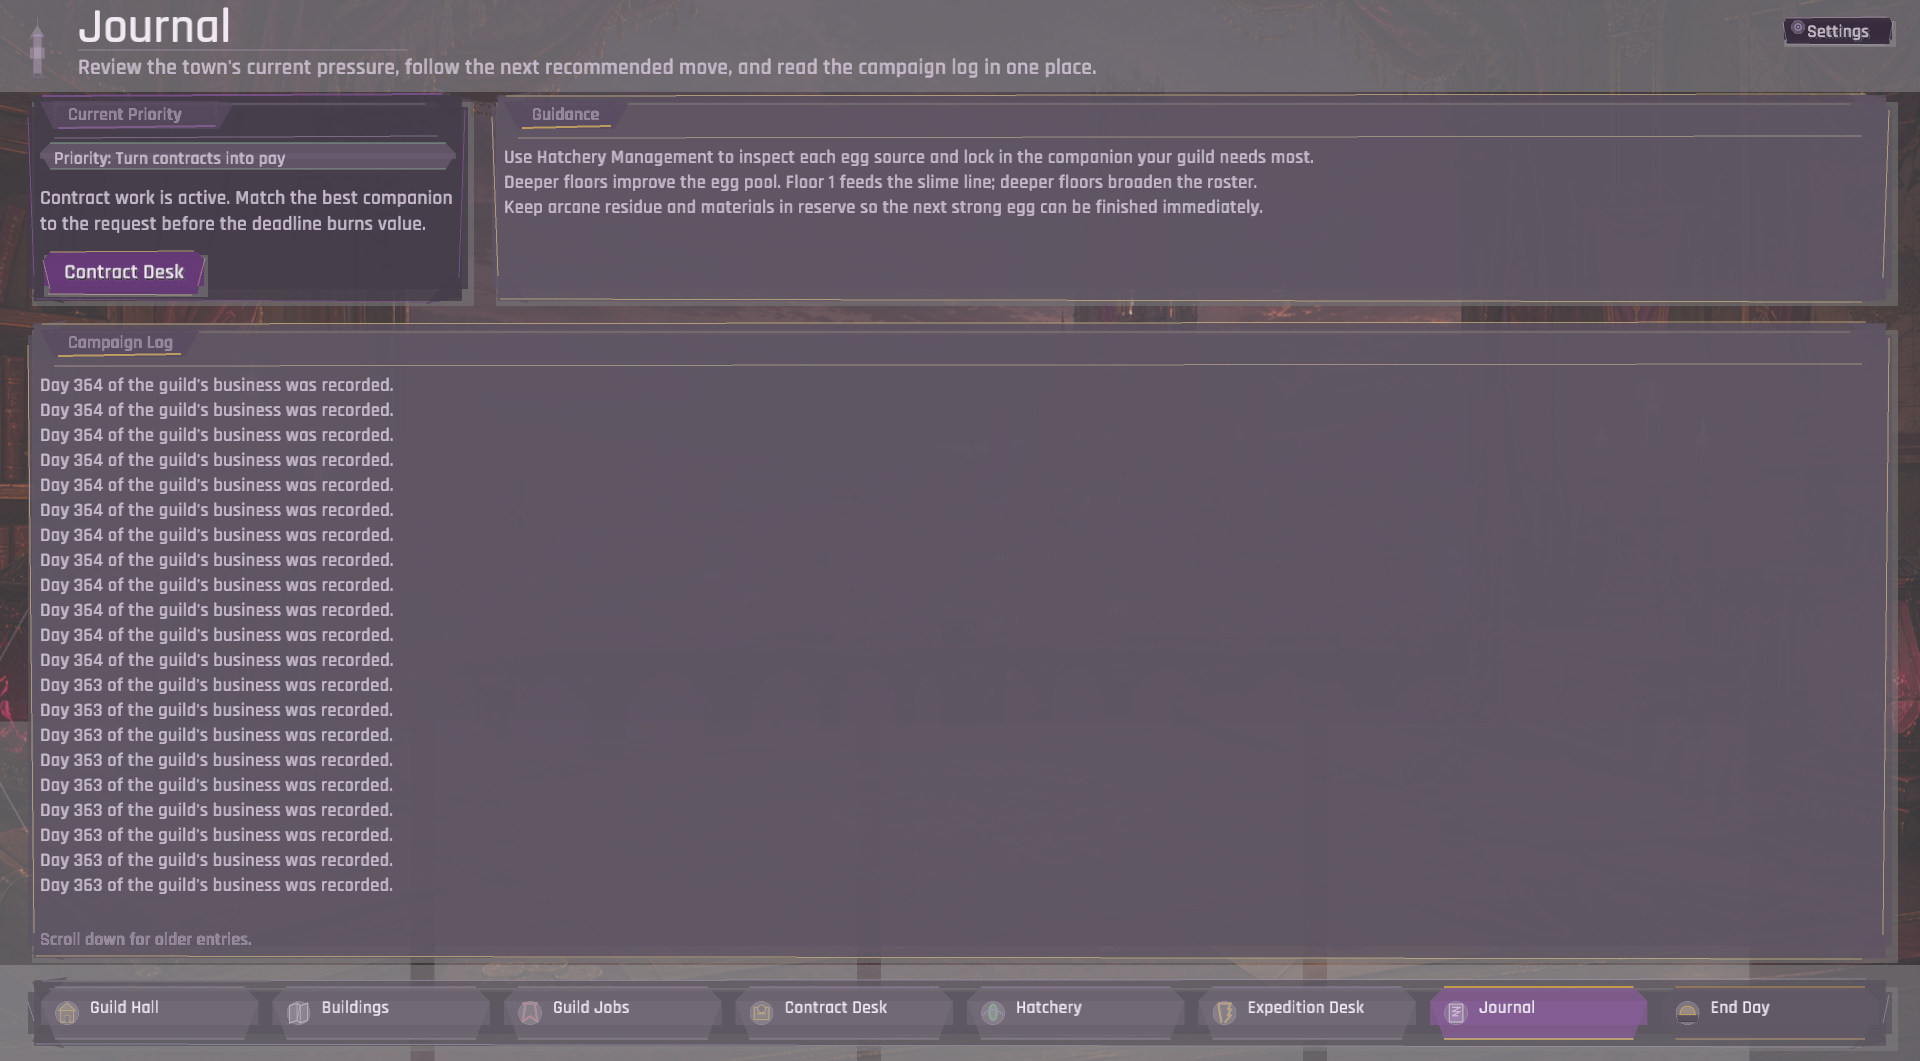
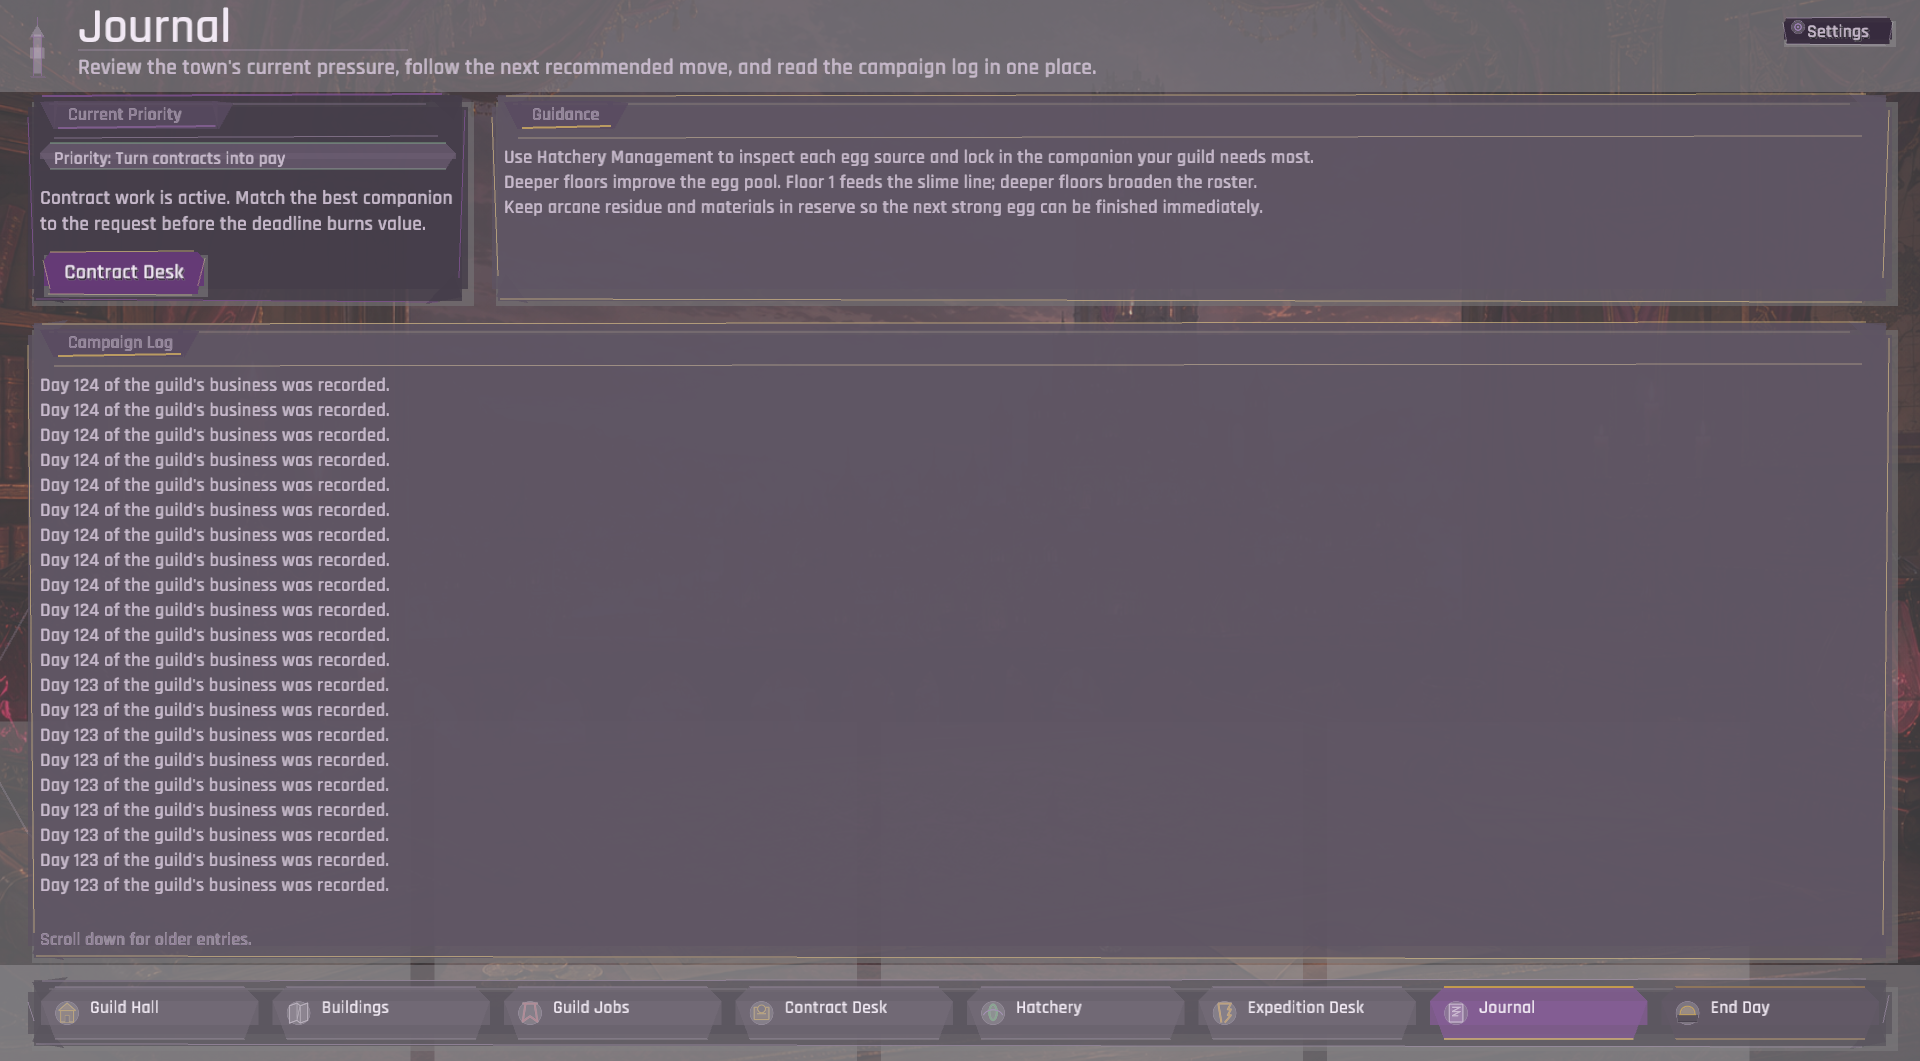
The guild kept every word it ever wrote down
The campaign log was the only unbounded structure in the save. It gains
about twelve and a half entries a day and nothing ever trimmed it: 189
entries by day 30, 912 by day 90, four thousand five hundred and
eighty-six by day 365. That is roughly three hundred kilobytes of the
JSON a web build writes, into a localStorage quota that every game on the
shared WebHatchery origin is competing for.

It is held to fifteen hundred entries now, oldest let go first, trimmed
once a day at the end of resolution because that is the only place it
grows by more than a line. Fifteen hundred is about four months of
scrollback, so the Journal still opens on a log a player can get lost in,
and the bound is authored rather than compiled in — zero keeps
everything, for anyone who wants the whole account.

And the Journal says what it is holding. A bound nobody mentions reads as
a campaign that began later than it did, which is the same silent
clipping the day report was fixed for two dozen commits ago.

The day-365 report's log goes from 4,587 entries to 1,500 and every
economic figure in it is byte-identical.

Checked while I was in the save path: both the explicit save and the
autosave surface a write failure to the player rather than swallowing it.
And the capture harness had been padding the log to 4,380 entries, which
is now a state the game trims away on the next resolved day, so it fills
to the authored bound instead.

Changed region(s): [[0.0312, 0.3421, 0.2188, 0.8398]]

diff --git a/src/engine/day_cycle/tests.rs b/src/engine/day_cycle/tests.rs
@@ -1472,3 +1472,43 @@ fn every_authored_mutation_fires_when_its_conditions_are_met() {
         );
     }
 }
+
+/// The campaign log was the only unbounded structure in the save: about twelve
+/// and a half entries a day, never trimmed, measured at 4,586 by day 365 —
+/// roughly 300KB of the JSON a web build writes into a localStorage quota that
+/// every game on the same origin shares.
+#[test]
+fn the_campaign_log_stops_growing_at_the_authored_bound() {
+    let data = crate::data::test_game_data();
+    let maximum = data.config.persistence.max_event_log_entries;
+    assert!(maximum > 0, "this test is about the authored bound");
+
+    let mut game_state = crate::engine::create_new_game_state(&data);
+    game_state.monsters = vec![test_monster(Vec::new())];
+    // Start it over the line so one resolved day has to bring it back.
+    game_state.event_log = (0..maximum + 40)
+        .map(|index| format!("old entry {index}"))
+        .collect();
+
+    let _ = resolve_day(&data, &mut game_state);
+
+    assert!(
+        game_state.event_log.len() <= maximum,
+        "the log should be held to {maximum}, got {}",
+        game_state.event_log.len()
+    );
+    assert!(
+        !game_state
+            .event_log
+            .iter()
+            .any(|entry| entry == "old entry 0"),
+        "the oldest entries are the ones let go"
+    );
+    assert!(
+        game_state
+            .event_log
+            .iter()
+            .any(|entry| entry == &format!("old entry {}", maximum + 39)),
+        "the newest entries must survive"
+    );
+}

diff --git a/src/ui/screens/journal.rs b/src/ui/screens/journal.rs
@@ -15,7 +15,9 @@ use crate::ui::core::{
 use crate::ui::feedback::draw_inline_error;
 use crate::ui::layout;
 use crate::ui::theme;
-use crate::ui::view_models::{action_from_action_hint, daily_priority_summary, onboarding_lines};
+use crate::ui::view_models::{
+    action_from_action_hint, daily_priority_summary, fill_template, onboarding_lines,
+};
 
 pub fn draw_journal(
     data: &GameData,
@@ -149,6 +151,26 @@ pub fn draw_journal(
     if start_index < max_scroll {
         draw_body_text(
             &ui.scroll_down_message,
+            left_margin + layout::PANEL_PADDING,
+            log_y + log_h - 16.0,
+            14.0,
+            theme::TEXT_MUTED,
+        );
+    } else if game_state.event_log.len() >= data.config.persistence.max_event_log_entries
+        && data.config.persistence.max_event_log_entries > 0
+    {
+        // The log is bounded now, and a bound nobody mentions reads as a
+        // campaign that began later than it did — the same silent clipping the
+        // day report was fixed for. This is the bottom of the list, so it is
+        // where the truth about it belongs.
+        draw_body_text(
+            &fill_template(
+                &ui.log_trimmed_message,
+                &[(
+                    "{count}",
+                    data.config.persistence.max_event_log_entries.to_string(),
+                )],
+            ),
             left_margin + layout::PANEL_PADDING,
             log_y + log_h - 16.0,
             14.0,

diff --git a/src/data/config_types.rs b/src/data/config_types.rs
@@ -21,6 +21,21 @@ pub struct PersistenceConfigData {
     pub native_settings_path: String,
     pub web_settings_key: String,
     pub autosave_enabled: bool,
+    /// Most campaign-log entries kept, oldest discarded first. `0` keeps
+    /// everything.
+    ///
+    /// The log was the only unbounded structure in the save: it gains about
+    /// twelve and a half entries a day and was never trimmed, measured at 189 by
+    /// day 30 and **4,586 by day 365** — roughly 300KB of the JSON a web build
+    /// writes into a localStorage quota that every game on the same origin
+    /// shares. Bounding it is fine; bounding it without saying so is what turns
+    /// a full box into a wrong report, so the Journal says what it is holding.
+    #[serde(default = "default_max_event_log_entries")]
+    pub max_event_log_entries: usize,
+}
+
+fn default_max_event_log_entries() -> usize {
+    1_500
 }
 
 #[derive(Debug, Clone, Serialize, Deserialize)]

diff --git a/src/game/capture.rs b/src/game/capture.rs
@@ -178,11 +178,14 @@ impl Game {
         // carries roughly 4,600. A journal photographed at nine entries is a
         // journal photographed in the one state where nothing about it can be
         // wrong.
-        let logged_days = 365;
-        for day in game_state.event_log.len()..logged_days * 12 {
+        // Filled to the bound the campaign log is now held to, which is what a
+        // long campaign actually carries — padding past it photographs a state
+        // the game trims away on the next resolved day.
+        let logged_entries = data.config.persistence.max_event_log_entries.max(1);
+        for entry in game_state.event_log.len()..logged_entries {
             game_state.event_log.push(format!(
                 "Day {} of the guild's business was recorded.",
-                day / 12
+                entry / 12
             ));
         }
 

diff --git a/src/engine/day_cycle/resolution.rs b/src/engine/day_cycle/resolution.rs
@@ -502,7 +502,21 @@ pub fn resolve_day(data: &GameData, game_state: &mut GameState) -> DayResolution
         summary.event_lines.push(event_text);
     }
     game_state.event_log.extend(summary.event_lines.clone());
+    trim_event_log(data, game_state);
     summary
+}
+
+/// Keeps the campaign log to the authored maximum, discarding the oldest first.
+///
+/// Once a day, at the end of resolution, because that is the only place the log
+/// grows by more than a line.
+fn trim_event_log(data: &GameData, game_state: &mut GameState) {
+    let maximum = data.config.persistence.max_event_log_entries;
+    if maximum == 0 || game_state.event_log.len() <= maximum {
+        return;
+    }
+    let surplus = game_state.event_log.len() - maximum;
+    game_state.event_log.drain(..surplus);
 }
 
 /// Charges the day's operating costs.

diff --git a/src/data/ui_text.rs b/src/data/ui_text.rs
@@ -320,6 +320,7 @@ pub struct JournalUiText {
     pub recent_events_empty_message: String,
     pub scroll_up_message: String,
     pub scroll_down_message: String,
+    pub log_trimmed_message: String,
 }
 
 #[derive(Debug, Clone, Serialize, Deserialize)]

diff --git a/loop.md b/loop.md
@@ -1644,6 +1644,30 @@ Stop the loop and report if:
   the Expedition Desk cards read `Worn 95% | Instability 204`, which is the first time
   those two numbers have appeared on a screen at all.
 
+- **2026-08-03 — thirtieth pass (the only unbounded thing in the save).** Took the
+  design call this loop had carried longest after the roster one. The campaign log gains
+  about twelve and a half entries a day and was never trimmed — 189 by day 30, 912 by
+  day 90, **4,586 by day 365** — roughly 300KB of the JSON a web build writes into a
+  localStorage quota that every game on the shared WebHatchery origin competes for.
+  `persistence.max_event_log_entries` (1,500; `0` keeps everything) trims the oldest once
+  a day at the end of resolution, the only place the log grows by more than a line. About
+  four months of scrollback survives, so the Journal still opens on a log a player can
+  get lost in. **And the Journal says what it is holding**, because a bound nobody
+  mentions reads as a campaign that began later than it did — the same silent clipping
+  the day report was fixed for.
+  **Result:** 140 tests (was 139), fmt and clippy clean, publish green,
+  `content_version` 1.31.0, `ui_text` 1.7.0. `final_event_log_entries` 4,587 → 1,500 with
+  **every economic figure byte-identical**. Checked while here: both the explicit save
+  and the autosave surface a write failure to the player rather than swallowing it. The
+  capture harness padded the log to 4,380, a state the game now trims away, so it fills
+  to the authored bound instead.
+  **Next iteration should know:** (a) with the log bounded, the save has no unbounded
+  structure left — `resolved_contracts` and `floor_surveys` grow with content, not with
+  time; (b) the `ui_text` migration (~40 hardcoded strings) is now the **only** recorded
+  slice left standing, and this loop has added to it four times without taking it;
+  (c) the `salamander_corekeeper` reachability question is still an open content
+  decision.
+
 ## Deferred (needs a new system or a decision; not for this loop)
 
 - **Make the validation policy's build order a plan rather than a shopping list.** Measured and

diff --git a/TODO.md b/TODO.md
@@ -245,6 +245,36 @@ mutation and the check names golemkin).
   is a `corruption_adept` exactly like the warden she replaces. Variety means a
   different *role*, not a different name.
 
+### Found by review, not by the audit (2026-08-03, thirtieth pass)
+
+Took the recorded design call this loop had carried longest after the roster
+one: **the campaign log was the only unbounded structure in the save.**
+
+- ~~The log grew for the life of a campaign and was never trimmed.~~ Bounded.
+  About twelve and a half entries a day — 189 by day 30, 912 by day 90, **4,586
+  by day 365** — is roughly 300KB of the JSON a web build writes, into a
+  localStorage quota that **every game on the shared WebHatchery origin
+  competes for**. `persistence.max_event_log_entries` (1,500, `0` keeps
+  everything) trims the oldest once a day at the end of resolution, which is the
+  only place the log grows by more than a line. Measured: the day-365 report's
+  `final_event_log_entries` 4,587 → 1,500, with every economic figure
+  byte-identical.
+
+  1,500 is about four months of scrollback, so the Journal still opens on a log
+  a player can get lost in.
+
+- **And it says so.** A bound nobody mentions reads as a campaign that began
+  later than it did — the same silent clipping the day report was fixed for — so
+  the bottom of the log now names what the guild is holding rather than simply
+  ending. The save path itself was checked while here: both the explicit save and
+  the autosave surface a failure to the player rather than swallowing it.
+
+- The capture harness padded the log to 4,380 entries, which is now a state the
+  game trims away on the next resolved day; it fills to the authored bound
+  instead.
+
+- **Balance byte-identical.**
+
 ### Found by review, not by the audit (2026-08-03, twenty-ninth pass)
 
 Swept the shape that produced the last three passes' finds — *a screen that
